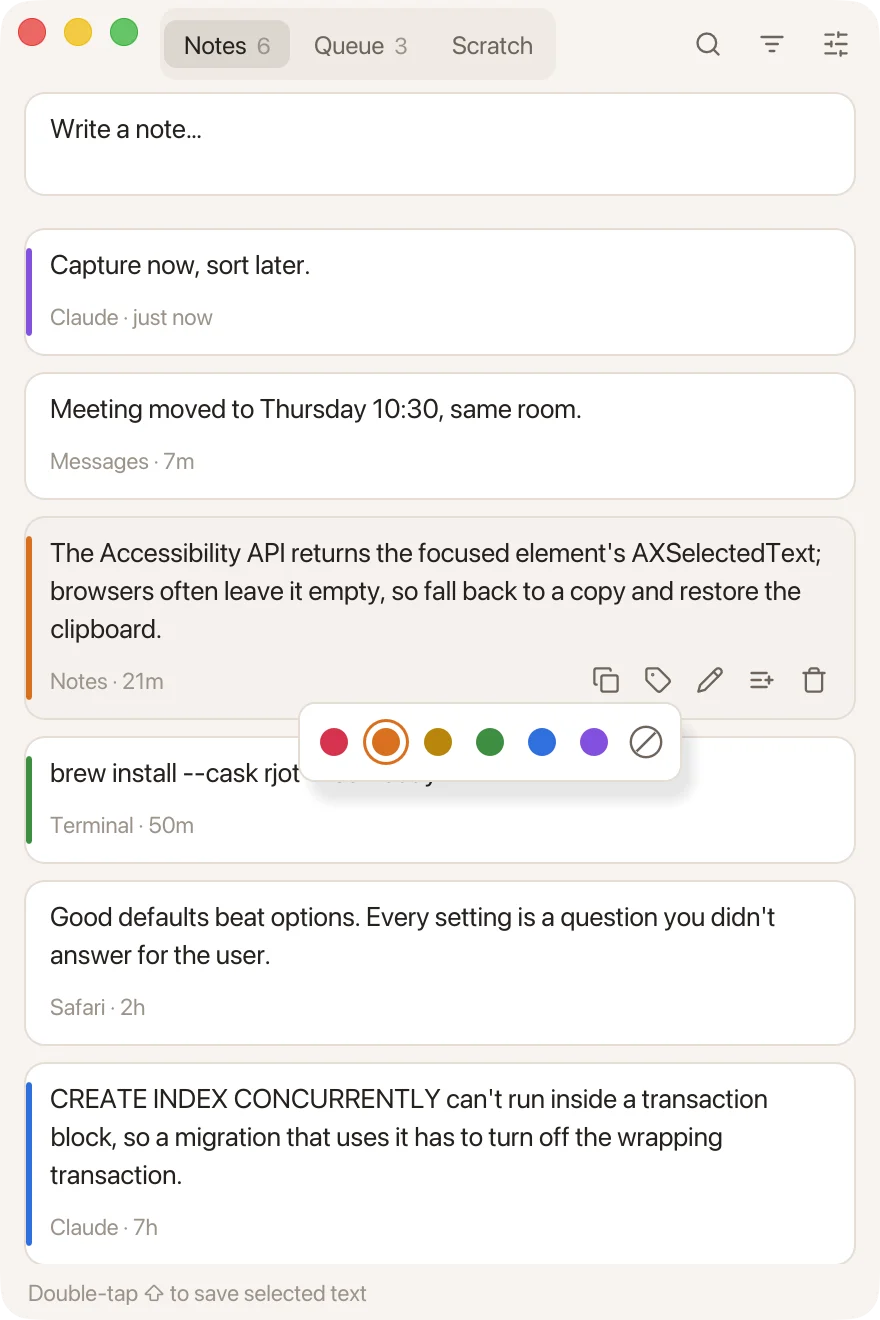
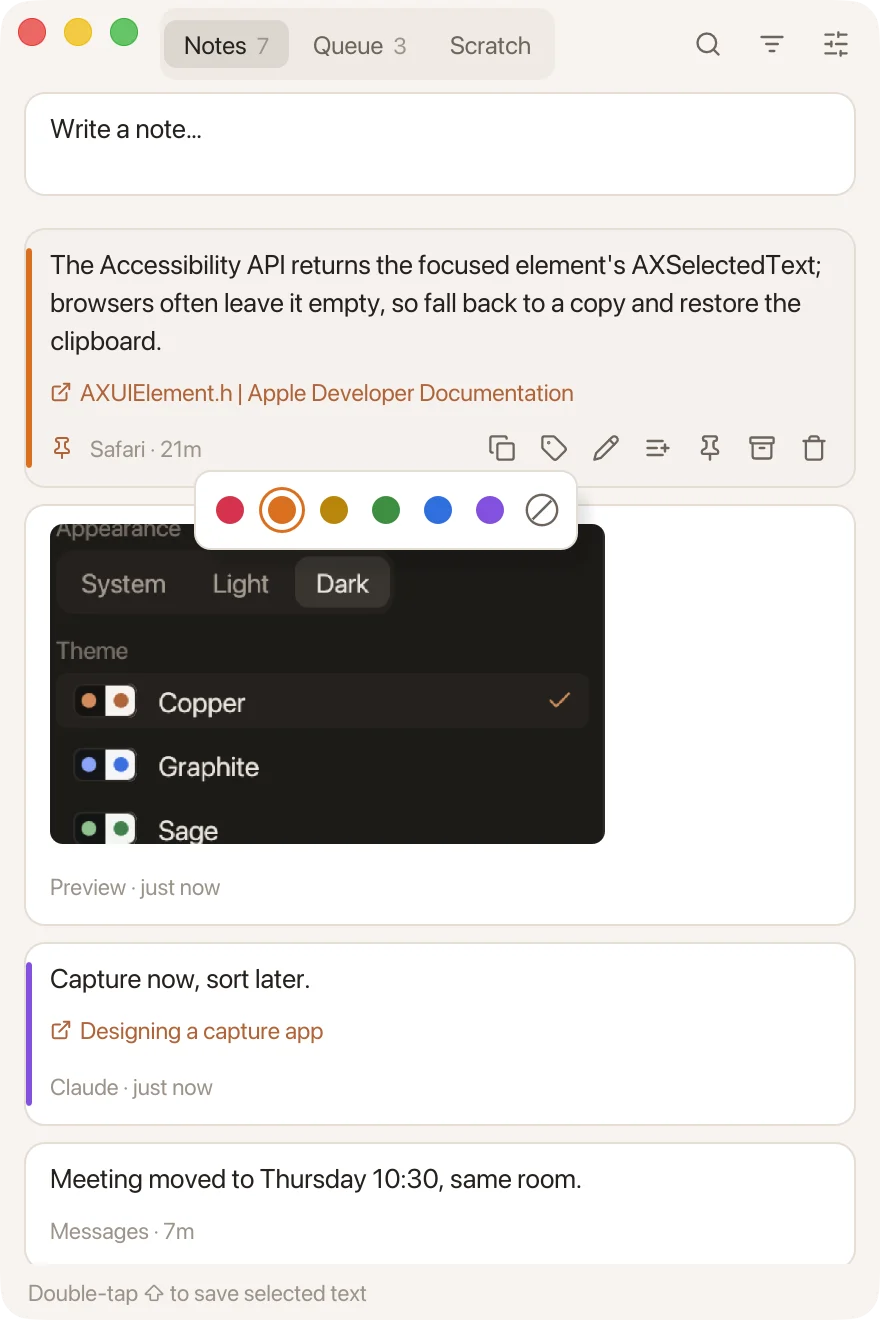
rjot 0.0.2-alpha

diff --git a/site/index.html b/site/index.html
@@ -42,10 +42,10 @@
           <h1>Tap Shift twice.</h1>
           <p class="lead">Select text in any app and tap <span class="kbd" aria-label="Shift"><svg><use href="#i-shift"/></svg></span> twice. rjot keeps it as a note, along with the app it came from, and you never leave the app you were in.</p>
           <div class="actions">
-            <a class="key key-accent key-wide" href="https://github.com/yoouTaro/rjot/releases/download/v0.0.1-alpha/rjot-0.0.1-alpha-macos-arm64.zip"><span class="cap"><span>Download for Mac</span><svg class="legend-icon"><use href="#i-return"/></svg></span></a>
+            <a class="key key-accent key-wide" href="https://github.com/yoouTaro/rjot/releases/download/v0.0.2-alpha/rjot-0.0.2-alpha-macos-arm64.zip"><span class="cap"><span>Download for Mac</span><svg class="legend-icon"><use href="#i-return"/></svg></span></a>
             <a class="key key-mod" href="https://github.com/yoouTaro/rjot"><span class="cap">View source</span></a>
           </div>
-          <p class="facts">v0.0.1-alpha &middot; macOS 11+, Apple silicon &middot; 3.4 MB &middot; MIT</p>
+          <p class="facts">v0.0.2-alpha &middot; macOS 11+, Apple silicon &middot; 4.9 MB &middot; MIT</p>
         </div>
 
         <div class="window" aria-label="A working copy of rjot's Notes list">
@@ -97,7 +97,7 @@
             <div class="entry-body">
               <h3>Base kit: Notes</h3>
               <p class="contents">6 caps</p>
-              <p>Every selection you keep lands here, newest first, with the app it came from and when. Nothing selected? The same gesture opens a quick note.</p>
+              <p>Every selection you keep lands here, newest first, with the app it came from, and the page when it came from a browser. Select an image and it's kept too. Pin what you need at the top and archive the rest.</p>
               <div class="tray">
                 <div class="combo"><span class="key"><span class="cap"><svg><use href="#i-shift"/></svg></span></span><span class="key"><span class="cap"><svg><use href="#i-shift"/></svg></span></span><small>Save the selection</small></div>
                 <div class="combo"><span class="key"><span class="cap"><svg><use href="#i-cmd"/></svg></span></span><span class="key"><span class="cap"><svg><use href="#i-return"/></svg></span></span><small>Save a typed note</small></div>
@@ -110,9 +110,10 @@
             <figure class="shot"><img src="img/queue.webp" width="440" height="660" loading="lazy" alt="The Queue: prompts saved for later, one checked off"></figure>
             <div class="entry-body">
               <h3>Queue kit</h3>
-              <p class="contents">4 caps</p>
-              <p>Write prompts before you need them. Copy one into ChatGPT, Claude or Cursor and it's checked off.</p>
+              <p class="contents">7 caps</p>
+              <p>Write prompts before you need them. In ChatGPT, Claude or Cursor, press Option-Shift-V, pick one, and it's pasted in and checked off.</p>
               <div class="tray">
+                <div class="combo"><span class="key"><span class="cap"><svg><use href="#i-opt"/></svg></span></span><span class="key"><span class="cap"><svg><use href="#i-shift"/></svg></span></span><span class="key"><span class="cap">V</span></span><small>Paste a prompt, anywhere</small></div>
                 <div class="combo"><span class="key"><span class="cap"><svg><use href="#i-cmd"/></svg></span></span><span class="key"><span class="cap">2</span></span><small>The queue</small></div>
                 <div class="combo"><span class="key"><span class="cap"><svg><use href="#i-cmd"/></svg></span></span><span class="key"><span class="cap">3</span></span><small>Scratch pad</small></div>
               </div>
@@ -179,10 +180,12 @@
           <div><dt>Gesture</dt><dd>Two taps of Shift alone, under <span class="num">350&nbsp;ms</span> apart</dd></div>
           <div><dt>Reads</dt><dd>The focused app's selected text through Accessibility; otherwise <span class="kbd kbd-dark" aria-label="Command"><svg><use href="#i-cmd"/></svg></span><span class="kbd kbd-dark">C</span>, with your clipboard put back exactly</dd></div>
           <div><dt>Keeps</dt><dd>One JSON file, <code>~/Library/<wbr>Application Support/<wbr>dev.rjot.rjot/<wbr>notes.json</code></dd></div>
-          <div><dt>Sends</dt><dd>Nothing. No account, no sync, no analytics, no network</dd></div>
+          <div><dt>Sends</dt><dd>Nothing on its own. No account, no sync, no analytics; it asks GitHub for a newer version only when you click Check for updates</dd></div>
+          <div><dt>Copies</dt><dd>Optionally, every note as a Markdown file in a folder you choose, such as an Obsidian vault</dd></div>
+          <div><dt>Lives in</dt><dd>The menu bar too: recent captures, quick note, pause, launch at login</dd></div>
           <div><dt>Skips</dt><dd>Copies a password manager marks as concealed</dd></div>
           <div><dt>Runs on</dt><dd>macOS 11 or later, Apple silicon</dd></div>
-          <div><dt>Weighs</dt><dd><span class="num">3.4&nbsp;MB</span> zipped</dd></div>
+          <div><dt>Weighs</dt><dd><span class="num">4.9&nbsp;MB</span> zipped</dd></div>
           <div><dt>Built with</dt><dd>Rust and egui, one native binary</dd></div>
           <div><dt>License</dt><dd>MIT, source on GitHub</dd></div>
         </dl>
@@ -199,8 +202,8 @@
           <li><span class="key key-accent num-key" aria-hidden="true"><span class="cap">4</span></span><h3>Tap Shift twice</h3><p>Select something anywhere. A short pop means it's kept.</p></li>
         </ol>
         <div class="closing">
-          <a class="key key-accent key-enter" href="https://github.com/yoouTaro/rjot/releases/download/v0.0.1-alpha/rjot-0.0.1-alpha-macos-arm64.zip"><span class="cap"><span>Download for Mac</span><svg class="legend-icon"><use href="#i-return"/></svg></span></a>
-          <p class="closing-note">Free and open source, v0.0.1-alpha. Or <a href="https://github.com/yoouTaro/rjot#build">build it from source</a>.</p>
+          <a class="key key-accent key-enter" href="https://github.com/yoouTaro/rjot/releases/download/v0.0.2-alpha/rjot-0.0.2-alpha-macos-arm64.zip"><span class="cap"><span>Download for Mac</span><svg class="legend-icon"><use href="#i-return"/></svg></span></a>
+          <p class="closing-note">Free and open source, v0.0.2-alpha. Or <a href="https://github.com/yoouTaro/rjot#build">build it from source</a>.</p>
         </div>
       </div>
     </section>

diff --git a/PRODUCT.md b/PRODUCT.md
@@ -34,7 +34,7 @@ Runs in the background on a Mac next to AI chats, editors and browsers. Closing 
 - ⌥⇧V paste picker: a filterable list of queued prompts; the chosen one is pasted into the app that was in front and checked off.
 - Browser captures (Safari, Chrome, Arc, Brave, Edge, Vivaldi) also keep the page URL and title (macOS asks once per browser). Firefox has no AppleScript, so it gets the app name only.
 - Pin (top of the list) and archive (out of the list, kept). Image notes: select an image and tap Shift twice.
-- macOS 11+, Apple silicon only for now. Release v0.0.1-alpha, zip of about 3.4 MB.
+- macOS 11+, Apple silicon only for now. Release v0.0.2-alpha, zip of about 4.9 MB.
 - Known limits: editors that copy the whole line on ⌘C with nothing selected (VS Code) save that line; macOS 14+ may not let rjot bring itself to the front.
 
 ## Brand Commitments
@@ -45,7 +45,7 @@ Runs in the background on a Mac next to AI chats, editors and browsers. Closing 
 
 ## Evidence on Hand
 
-Real app captures from scripted demo scenes (`scripts/screenshots.sh`): `docs/screenshots/*.png` (dark and light), `site/img/*.webp` (light Copper). Measured size: 3.4 MB zip. No users, testimonials, download counts or benchmarks exist; don't invent any.
+Real app captures from scripted demo scenes (`scripts/screenshots.sh`): `docs/screenshots/*.png` (dark and light), `site/img/*.webp` (light Copper). Measured size: 4.9 MB zip (0.0.2-alpha). No users, testimonials, download counts or benchmarks exist; don't invent any.
 
 ## Product Principles
 

diff --git a/CHANGELOG.md b/CHANGELOG.md
@@ -1,6 +1,6 @@
 # Changelog
 
-## Unreleased
+## 0.0.2-alpha — 2026-10-16
 
 - **Menu bar icon:** the last five captures (click to copy), Quick note, Open rjot, Pause capture, Launch at login (macOS 13+) and Quit.
 - **⌥⇧V paste picker:** a list of queued prompts, filtered as you type. ↩ pastes the chosen one into the app you were in (your clipboard is put back) and checks it off.
